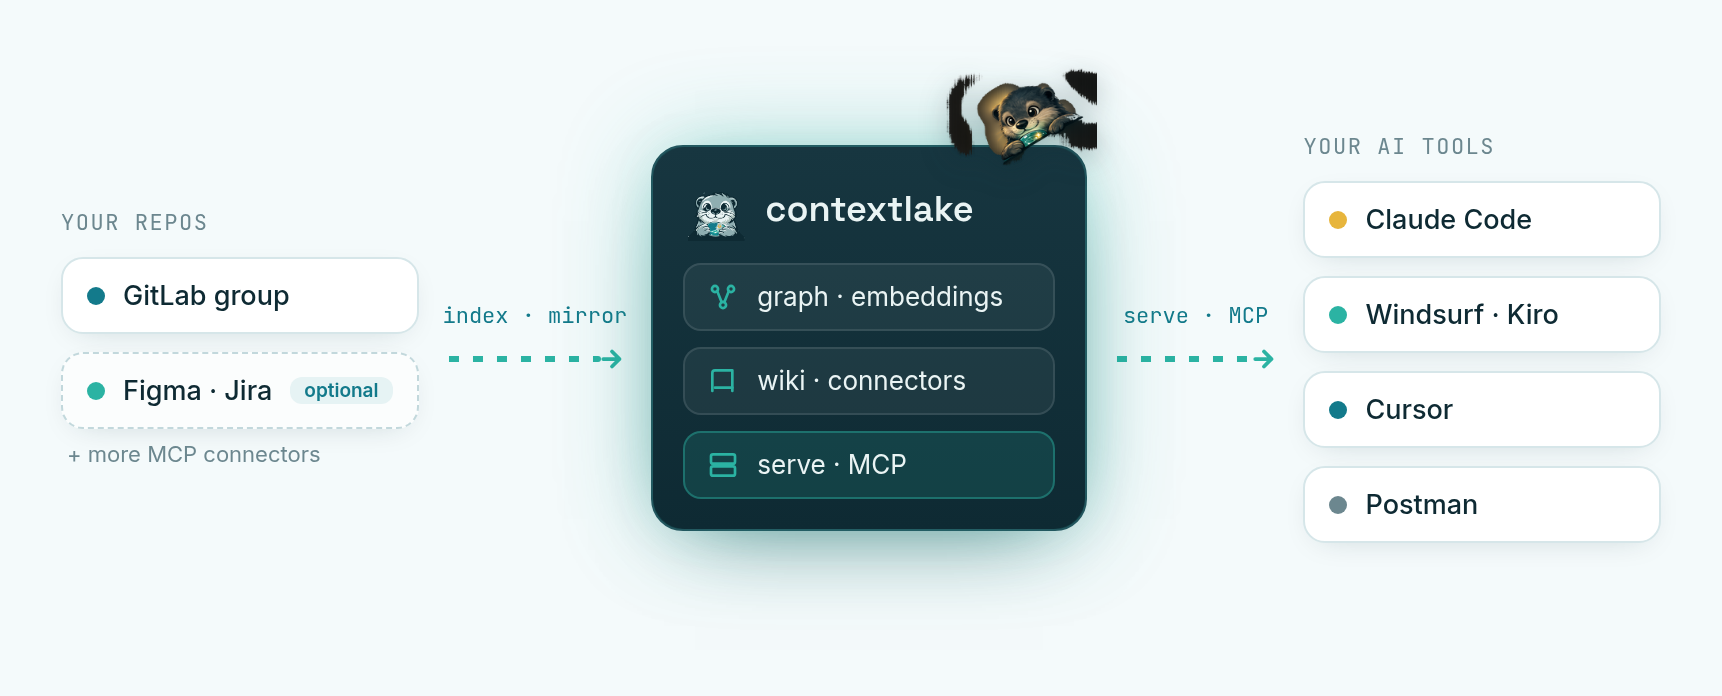
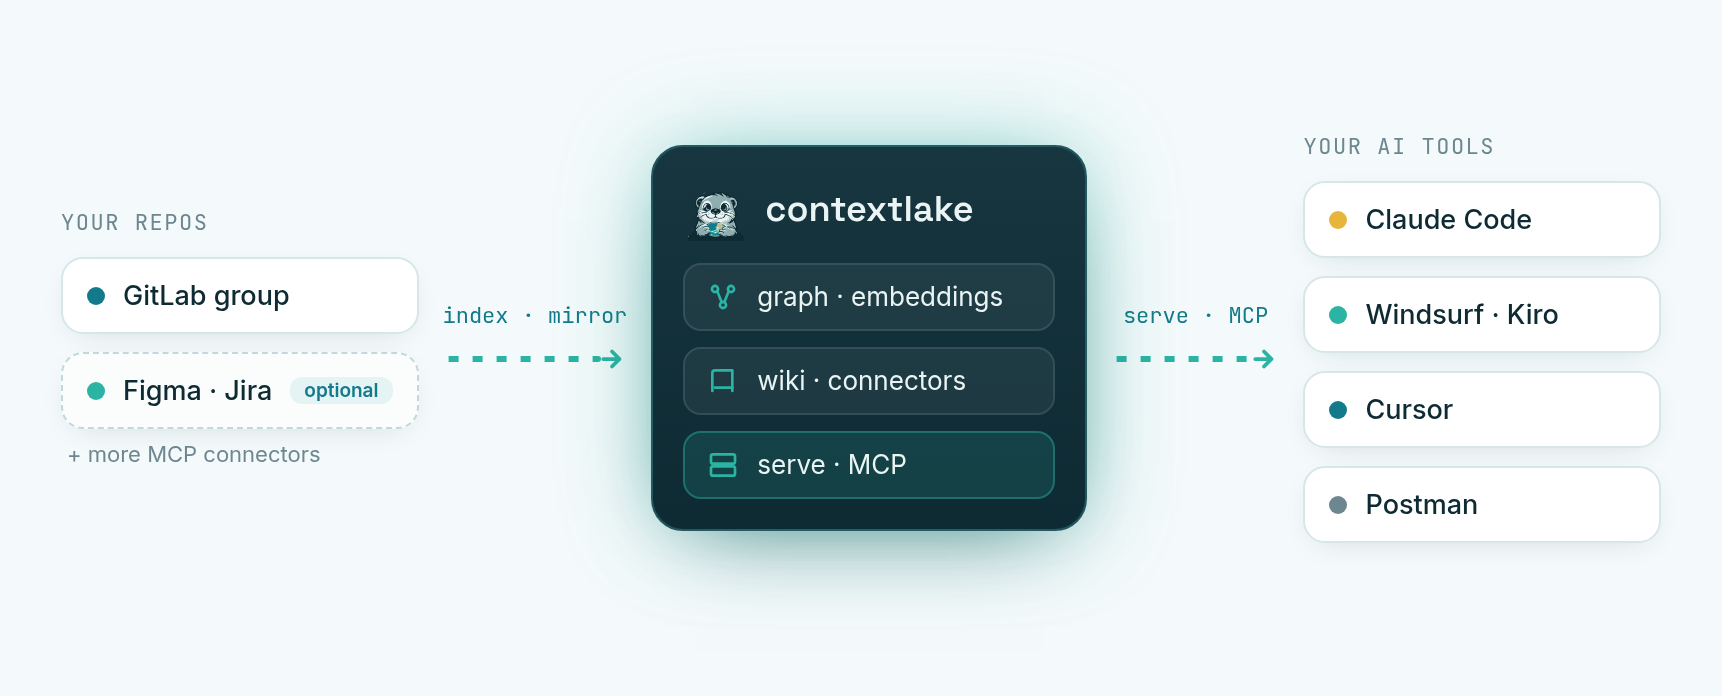
docs(brand): re-export clean architecture diagram (no peek); add a peek sign-off image at the README end

Changed region(s): [[0.5232, 0.0905, 0.6463, 0.2414]]

diff --git a/README.md b/README.md
@@ -180,3 +180,5 @@ contextlake bootstrap --kb-config ~/.contextlake/kb.toml
 ## License
 
 MIT, see [LICENSE](LICENSE). Pebble the otter is the project mascot; *deep context, clear answers.*
+
+<p align="center"><img src="https://raw.githubusercontent.com/sayak-sarkar/contextlake/main/docs/img/pebble-peek.png" alt="Pebble, the contextlake otter, peeking over the edge" width="240"></p>